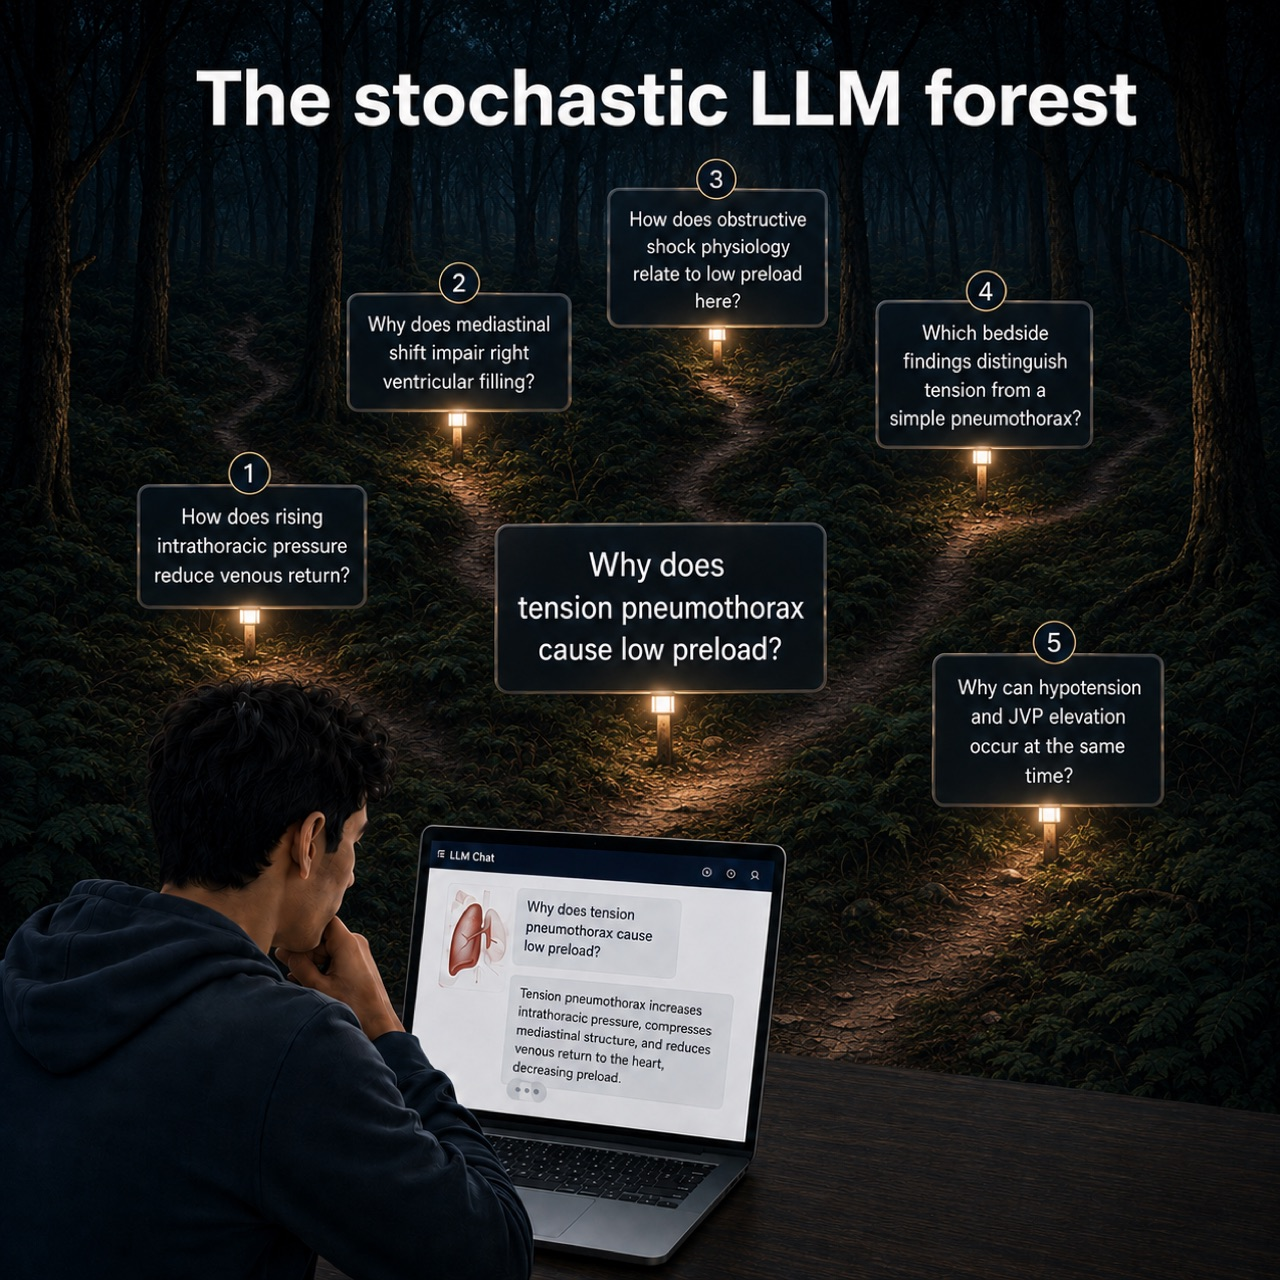
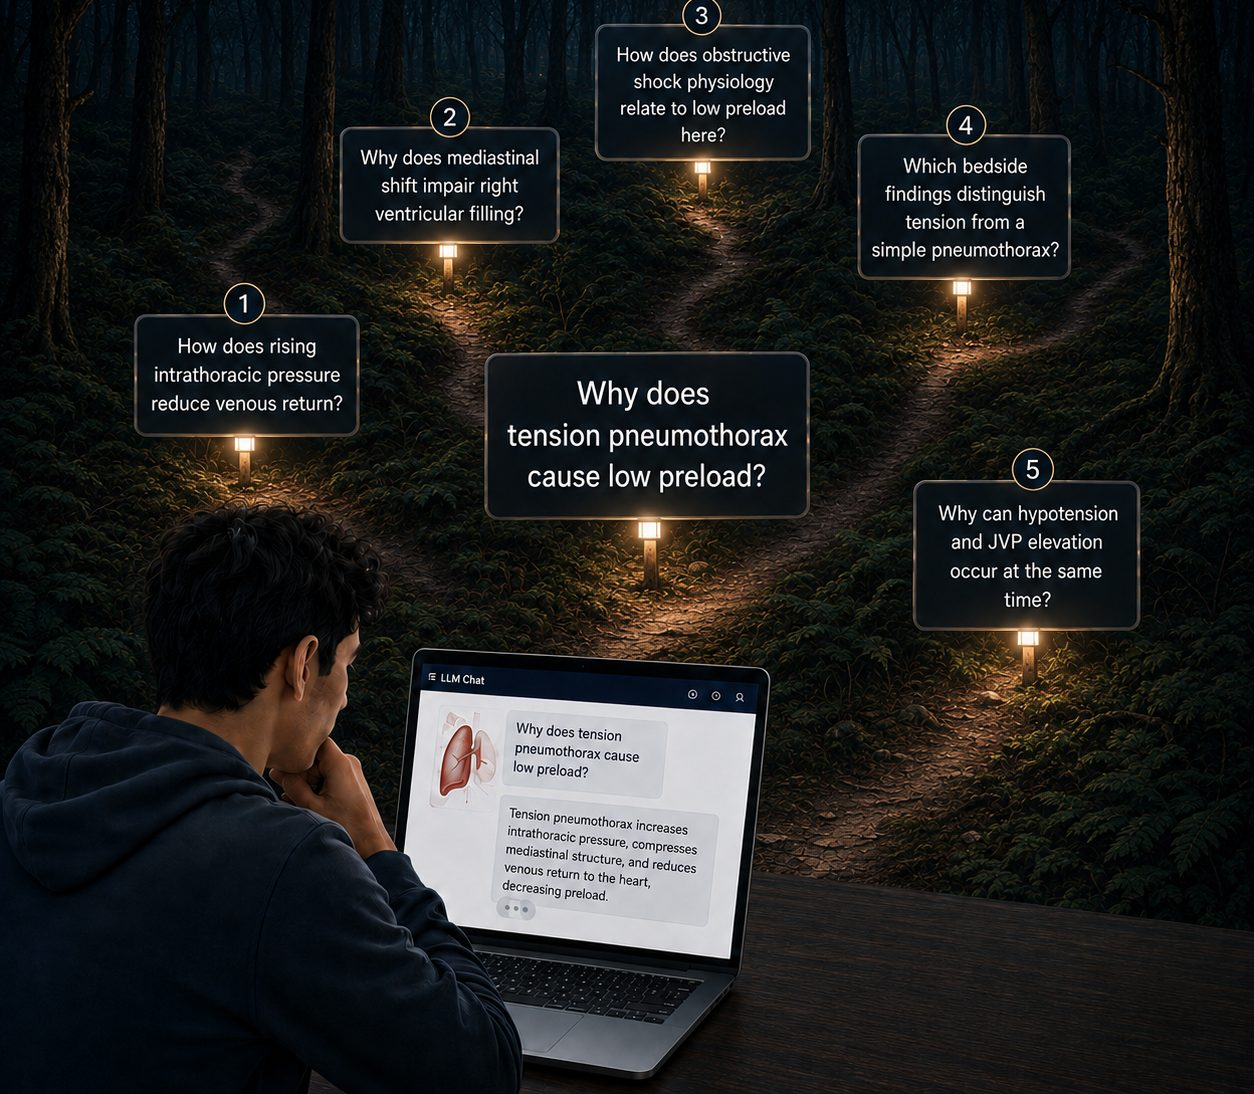
docs: define the forest, crop the figure, link the plan files (#96)
Rewrites the "Stochastic LLM forest" section for scannability:
- Adds a GitHub NOTE alert that literally defines the term.
- Uses the newly cropped figure (title stripped, ~half the file
  size, 246 KB vs 453 KB) since the H2 already carries the name.
- Splits the prose into two bolded lead-ins ("A concrete run",
  "CaseAttend's answer") so a reader can skim the shape.
- Replaces the vague "Lesson Plan v1 freezes..." paragraph with a
  three-item file-link list pointing to the schema
  (src/core/lessonPlan.ts), the built-in plans
  (src/data/lessonRegistry.ts), and the SDK entry
  (docs/sdk/README.md).

Also upgrades the "Educational use only" disclaimer to a proper
[!CAUTION] GitHub alert so the safety notice reads as a styled
callout instead of a plain blockquote.

diff --git a/README.md b/README.md
@@ -41,6 +41,7 @@
 > [!IMPORTANT]
 > **One of 50 winners out of 4,096 entries** in the "Vibe Code with Gemini 3 Pro" Kaggle hackathon. CaseAttend grew out of that competition project, originally built as **VibeRad**, by [James Weatherhead](https://github.com/JamesWeatherhead), [Jake Weatherhead](https://github.com/JakeWeatherhead), [Peter McCaffrey](https://github.com/pmccaffrey6), and George Golovko.
 
+> [!CAUTION]
 > **Educational use only.** CaseAttend is a teaching tool, not a diagnostic or clinical decision-making system.
 
 A **vision-language model (VLM)** is an AI model that can work with images and
@@ -69,24 +70,34 @@ Choose the path that fits your work:
 
 ## The stochastic LLM forest
 
+> [!NOTE]
+> **The stochastic LLM forest.** The exponentially branching space of
+> conversation paths a generic LLM opens with every follow-up. Each reply
+> plants new plausible next questions; the learner can wander anywhere, and
+> after a few turns the trail back to the original objective can be dim.
+> Great for green-field exploration. Wrong shape for a structured lesson.
+
 <p align="center">
-  <img src="docs/figures/stochastic-llm-forest.jpg" width="640" alt="A learner at a laptop asks 'Why does tension pneumothorax cause low preload?'. Five lit paths radiate into a dark forest, each labeled with a possible follow-up question, illustrating how a generic LLM conversation branches into a growing space of possible directions.">
+  <img src="docs/figures/stochastic-llm-forest.jpg" width="720" alt="A learner at a laptop asks 'Why does tension pneumothorax cause low preload?'. Five lit paths lead into a dark forest, each labeled with a plausible follow-up question the LLM could steer toward.">
 </p>
 
-Ask a generic LLM about tension pneumothorax. Each follow-up opens more paths:
-physiology, related shock states, bedside signs, differential diagnosis. After
-a few branches the conversation can land somewhere useful, somewhere you did
-not intend to go, or so far from the starting point that you have forgotten
-what you were trying to learn.
+**A concrete run.** Ask a generic LLM about tension pneumothorax. One reply
+opens paths into physiology, related shock states, bedside signs, and the
+differential. After a few branches the conversation can land somewhere
+useful, somewhere unintended, or so far from the starting point that the
+original objective is gone.
 
-That branching is fine for green-field exploration. It is the wrong shape for
-a structured lesson where the learner has to reach a specific objective.
+**CaseAttend's answer: [Lesson Plan v1](#lesson-plan-v1).** A plan is a
+portable, versioned file that freezes the objectives, allowed hints, Socratic
+opening, escalation and stopping conditions, and rubric.
 
-CaseAttend's answer is [**Lesson Plan v1**](#lesson-plan-v1). The plan freezes
-the learning objectives, allowed hints, Socratic opening, escalation and
-stopping conditions, and rubric criteria, so the tutor stays on the intended
-path instead of wandering with the learner. The forest is still there. The
-lesson stays lit.
+- Schema: [`src/core/lessonPlan.ts`](src/core/lessonPlan.ts)
+- Built-in plans: [`src/data/lessonRegistry.ts`](src/data/lessonRegistry.ts)
+- SDK entry: [`docs/sdk/README.md`](docs/sdk/README.md)
+
+Every conversation runs against a specific plan's SHA-256 manifest, so the
+tutor stays on the intended path instead of wandering with the learner.
+*The forest is still there. The lesson stays lit.*
 
 ## Browser-stored key, direct-to-provider inference
 
